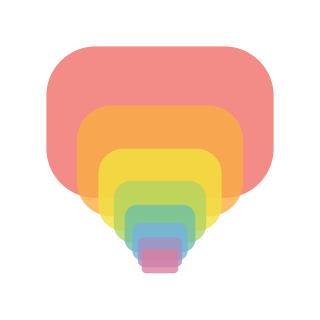
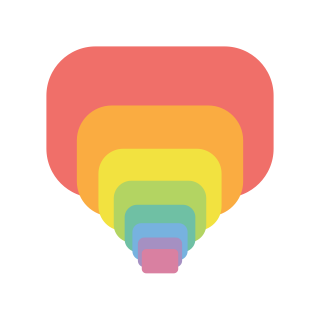
Icon更新

Changed region(s): [[0.125, 0.125, 0.875, 0.8125], [0.4375, 0.8125, 0.5625, 0.875]]

diff --git a/PeResize/PERIconView.swift b/PeResize/PERIconView.swift
@@ -72,12 +72,12 @@ class PERIconView: UIView {
         drawRect.origin.y += length * ((1.0 - PARAM_X) * 0.5)
         drawRect.size.width = length * PARAM_X
         drawRect.size.height = drawRect.size.width * heightRatio
-    
+        
         // loop
         var margin = drawRect.origin.y - rect.origin.y
         NSLog("top margin    = \(margin)")
         for (var i = 0; i < 8; i++) {
-            CGContextSetRGBFillColor(context, R[i], G[i], B[i], 0.8)
+            CGContextSetRGBFillColor(context, R[i], G[i], B[i], 1.0)
             margin = CGRectGetMaxY(rect) - CGRectGetMaxY(drawRect)
             drawRoundedRect(context, rect: drawRect, radius: radius, mode: kCGPathFill)
             drawRect.origin.x += radius * CIRCLE_RATIO
